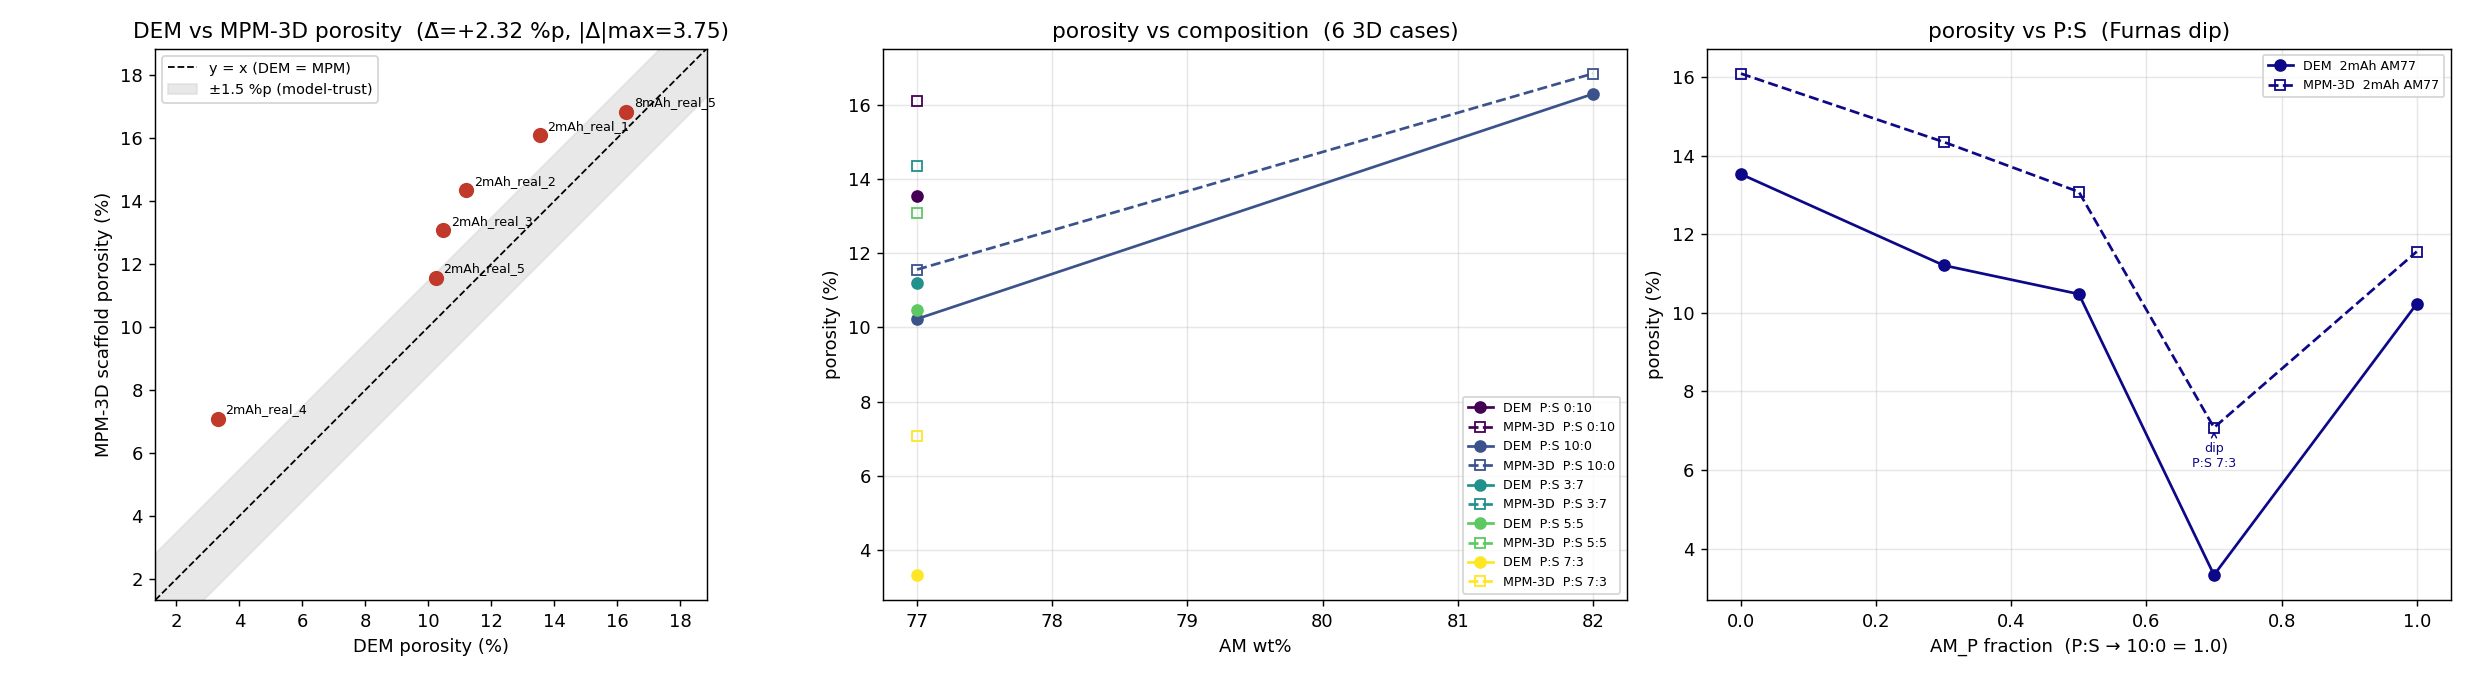
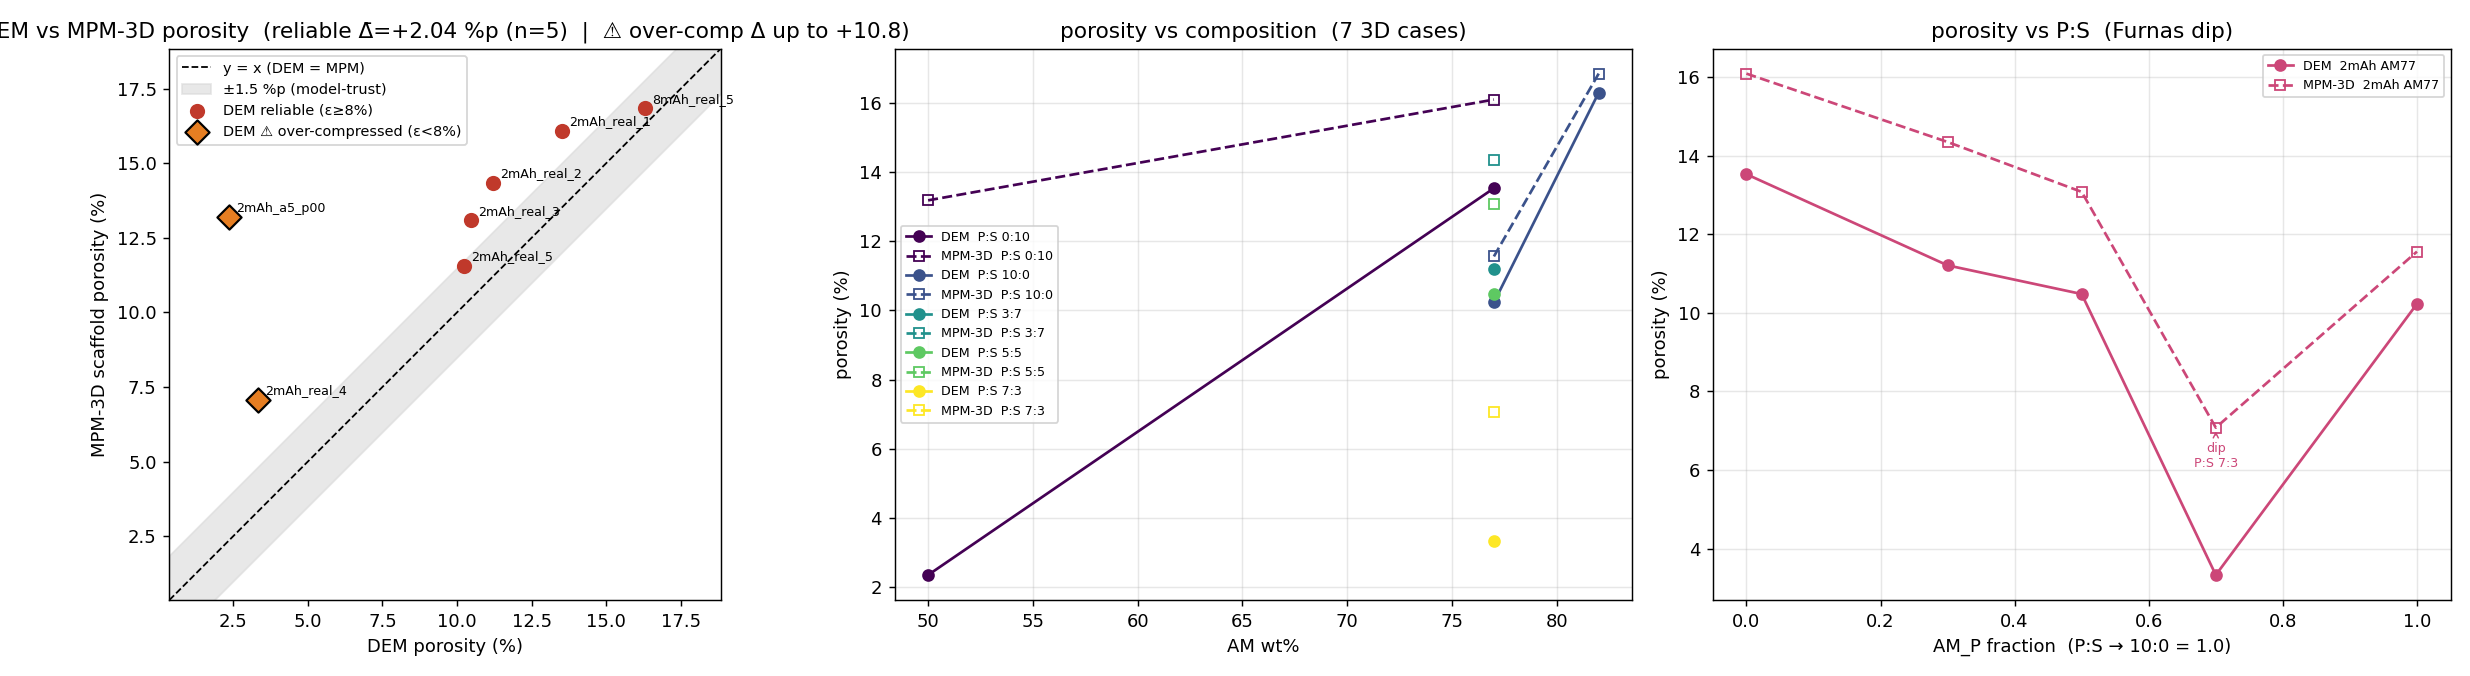
data+plot: add input_2mAh_a5_p00 (extreme over-compression demo) + flag ε<8% in parity
a5_p00 = the real owner of the 995-AM MPM run (AM:SE 50:50, P:S 0:10,
r_SE=1.5um, SE-rich phi_SE 0.689). DEM 2.36% (overlap 11.2%, dashboard
warns over-compressed) vs MPM-3D 13.18% -> +10.82%p, the largest gap.
MPM 13.18% is the physical value (consistent w/ Minnmann pure-SE ~10%);
DEM 2.36% is the ε_sphere breakdown in the SE-rich+soft-E+near-monomodal
(2:1.5um) regime. Panel 1 now marks DEM-over-compressed (ε<8%) cases as
orange diamonds and reports model-trust on reliable cases separately
(reliable Δ̄=+2.04%p n=5). Both flagged cases (real_4 7:3, a5_p00) sit
above the band where MPM releases the DEM over-densification.

diff --git a/scripts/plot_2d_3d_porosity.py b/scripts/plot_2d_3d_porosity.py
@@ -64,12 +64,19 @@ def main():
     ax1.plot([lo, hi], [lo, hi], 'k--', lw=1, label='y = x (DEM = MPM)')
     ax1.fill_between([lo, hi], [lo - 1.5, hi - 1.5], [lo + 1.5, hi + 1.5], color='0.85', alpha=0.6,
                      label='±1.5 %p (model-trust)')
-    ax1.scatter(dem, mpm, s=55, c='#c0392b', zorder=3)
+    oc = dem < 8.0                                      # DEM over-compressed (dashboard ⚠ threshold)
+    ax1.scatter(dem[~oc], mpm[~oc], s=55, c='#c0392b', zorder=3, label='DEM reliable (ε≥8%)')
+    if oc.any():
+        ax1.scatter(dem[oc], mpm[oc], s=90, c='#e67e22', edgecolors='k', lw=1.2, marker='D',
+                    zorder=4, label='DEM ⚠ over-compressed (ε<8%)')
     for x, y, n in zip(dem, mpm, names):
         ax1.annotate(n, (x, y), fontsize=7, xytext=(4, 3), textcoords='offset points')
     if len(dem) >= 2:
         d = mpm - dem
-        ax1.set_title(f'DEM vs MPM-3D porosity  (Δ̄={d.mean():+.2f} %p, |Δ|max={np.abs(d).max():.2f})')
+        rel = d[~oc]                                   # model-trust on DEM-reliable cases only
+        rtxt = f'reliable Δ̄={rel.mean():+.2f} %p (n={len(rel)})' if len(rel) else ''
+        otxt = f'  |  ⚠ over-comp Δ up to {d[oc].max():+.1f}' if oc.any() else ''
+        ax1.set_title(f'DEM vs MPM-3D porosity  ({rtxt}{otxt})')
     ax1.set_xlabel('DEM porosity (%)'); ax1.set_ylabel('MPM-3D scaffold porosity (%)')
     ax1.set_xlim(lo, hi); ax1.set_ylim(lo, hi); ax1.legend(fontsize=8); ax1.set_aspect('equal')
 
